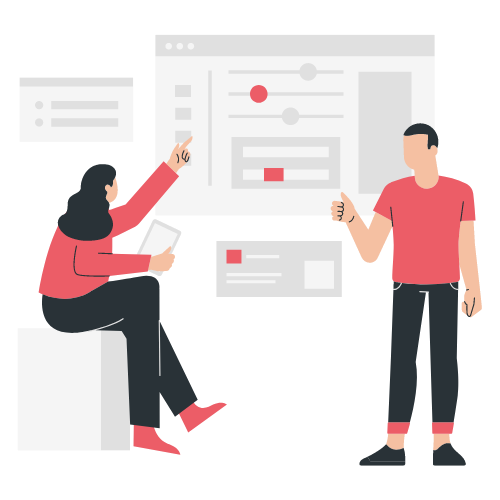
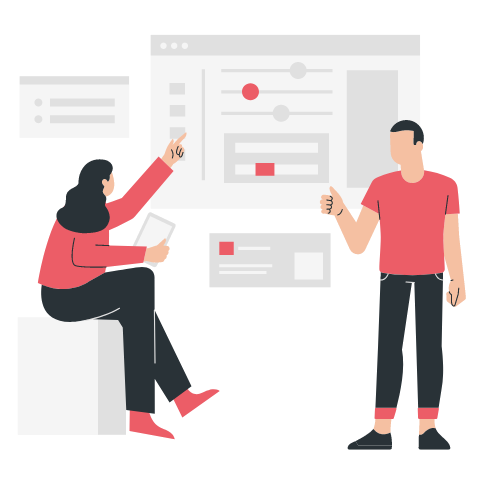
modified:   img/data.png 	deleted:    img/data2.png 	modified:   index.php

diff --git a/index.php b/index.php
@@ -304,7 +304,7 @@
       <div class="row g-0">
         <div class="col-md-4">
           <div class="text-center">
-            <img src="img/data2.png" class="img-fluid rounded img-shift-right" alt="Data Privacy" >
+            <img src="img/data.png" class="img-fluid rounded img-shift-right" alt="Data Privacy" >
           </div>
         </div>
         <div class="col-md-7 offset-md-1" style="margin-top: 60px;">
